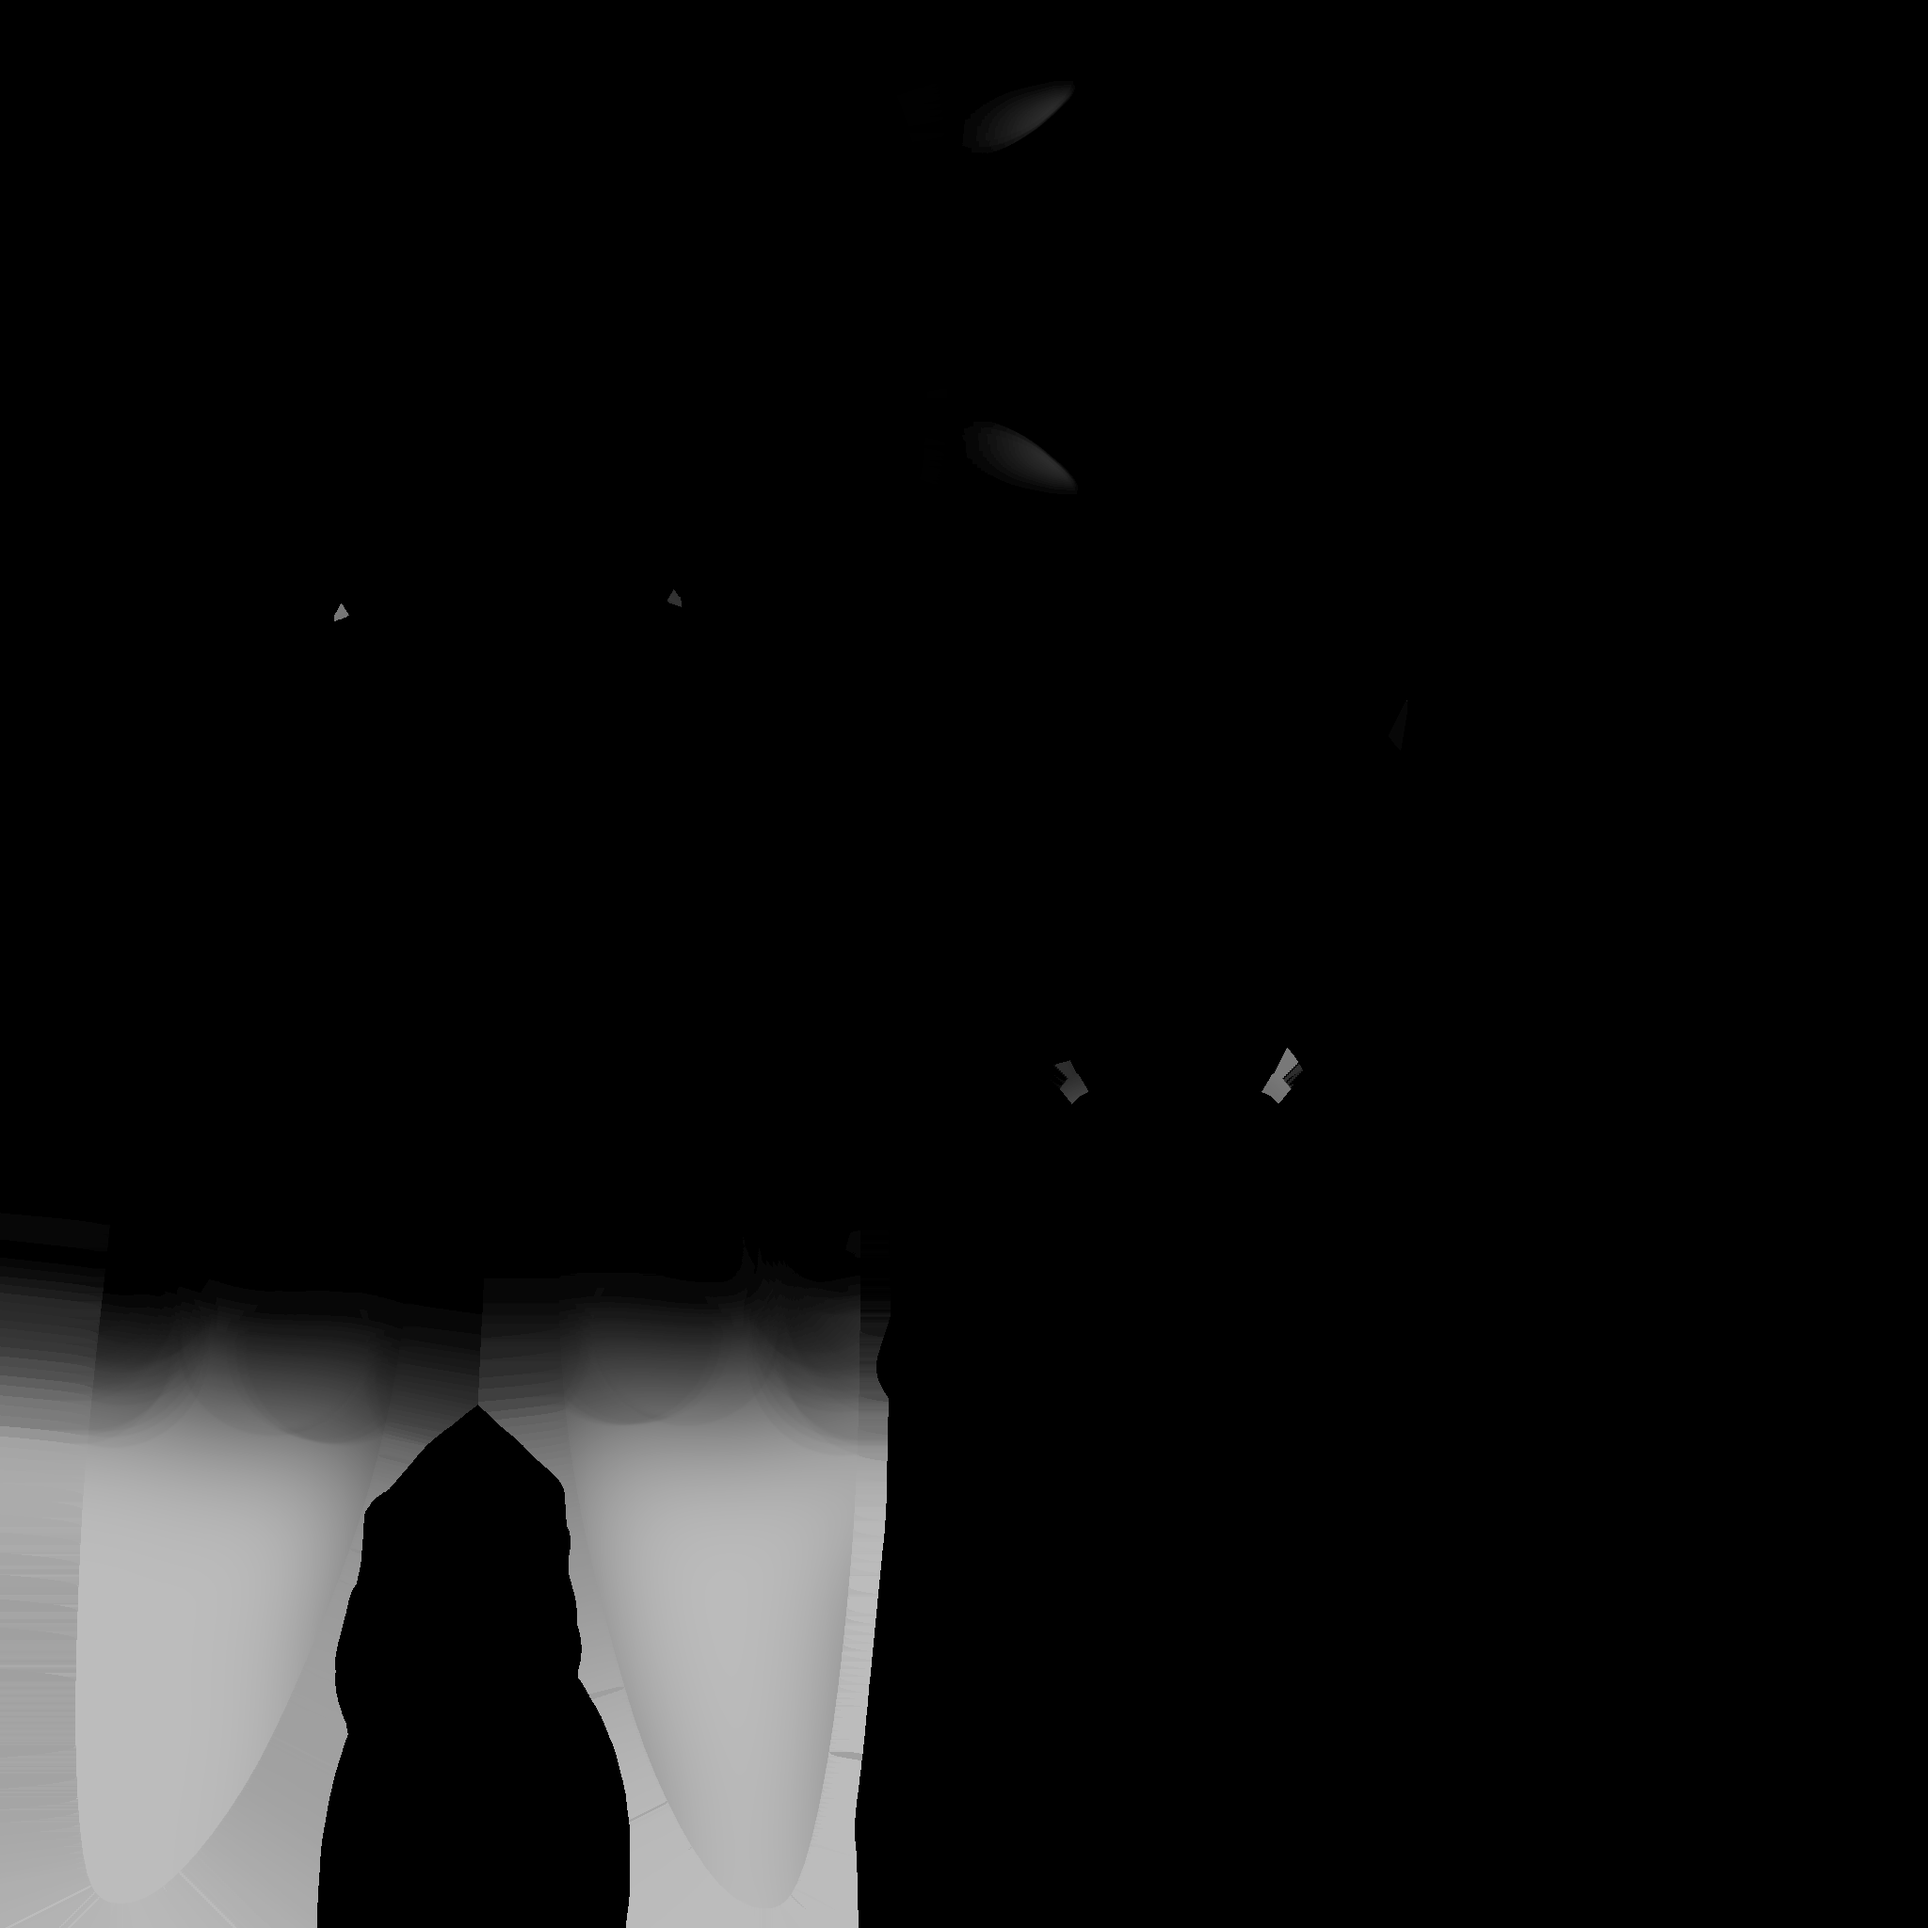
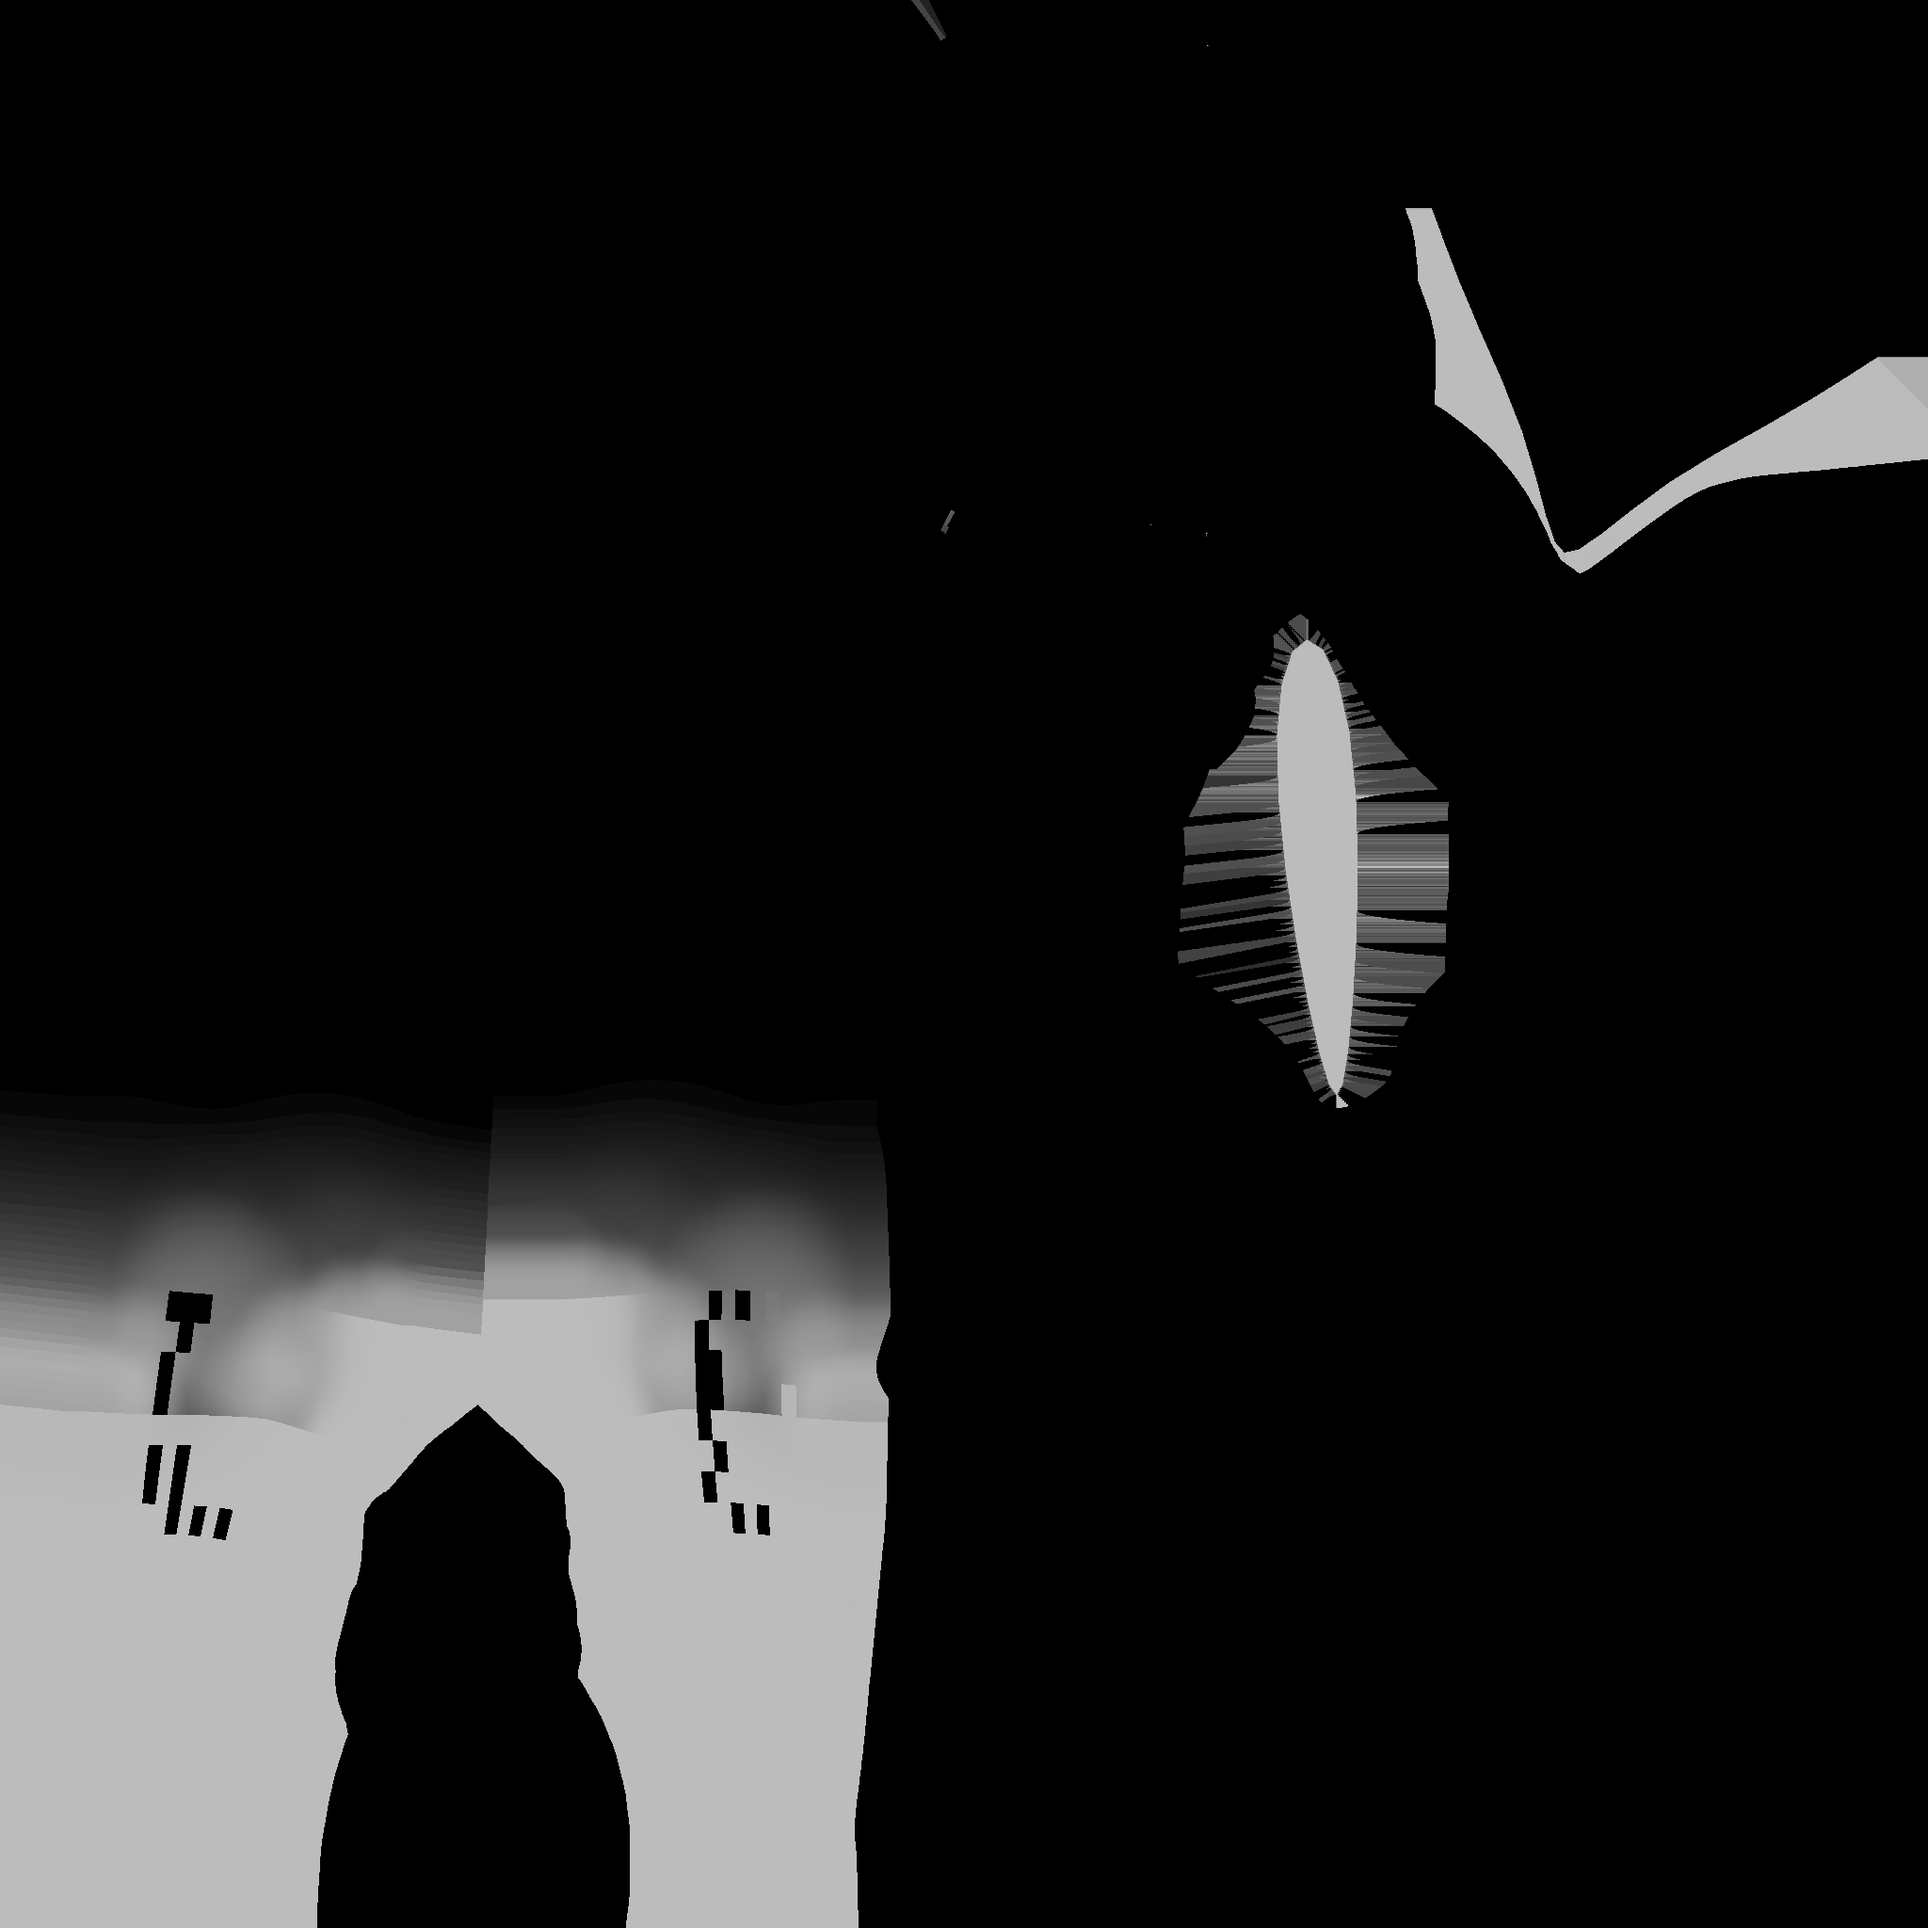
fixed 3D report

diff --git a/public/report-3d-viewer.js b/public/report-3d-viewer.js
@@ -22,17 +22,6 @@ const SECTION_MASK_MAP = {
     'Horizontal Stabilizer': 'HorizontalStabilizer.png'
 };
 
-// Section colors at 10+ defects (RGB values)
-const SECTION_MAX_COLORS = {
-    'FWD Fuselage': { r: 0, g: 102, b: 76 },      // rgb(0, 102, 76)
-    'MID Fuselage': { r: 25, g: 102, b: 0 },      // rgb(25, 102, 0)
-    'Wings': { r: 0, g: 31, b: 102 },             // rgb(0, 31, 102)
-    'AFT Fuselage': { r: 102, g: 0, b: 0 },        // rgb(102, 0, 0)
-    'Engines': { r: 83, g: 0, b: 102 },            // rgb(83, 0, 102)
-    'Vertical Stabilizer': { r: 102, g: 57, b: 0 }, // rgb(102, 57, 0)
-    'Horizontal Stabilizer': { r: 99, g: 102, b: 0 } // rgb(99, 102, 0)
-};
-
 // Convert hex color to THREE.Color
 const hexToColor = (hex) => {
     const r = parseInt(hex.slice(1, 3), 16) / 255;
@@ -41,31 +30,53 @@ const hexToColor = (hex) => {
     return new THREE.Color(r, g, b);
 };
 
-// Calculate heat mapping color based on defect count for a specific section
+// Calculate heat mapping color based on defect count
+// All sections use the same color scheme:
+// >20 defects: red (255, 0, 0)
+// 10 defects: yellow (255, 186, 0)
+// 3 defects: green (70, 255, 58)
+// 0 defects: white (255, 255, 255)
+// Gradient: red -> yellow -> green -> white as defects decrease
 const calculateHeatColor = (defectCount, sectionName) => {
     // All sections start at white (255, 255, 255) for 0 defects
     if (defectCount === 0) {
         return new THREE.Color(1, 1, 1); // White: rgb(255, 255, 255)
     }
     
-    // Get the section's max color (at 10+ defects)
-    const maxColor = SECTION_MAX_COLORS[sectionName];
-    if (!maxColor) {
-        // Fallback to white if section not found
-        return new THREE.Color(1, 1, 1);
+    // Color definitions (RGB 0-255)
+    const red = { r: 255, g: 0, b: 0 };        // >20 defects
+    const yellow = { r: 255, g: 186, b: 0 };   // 10 defects
+    const green = { r: 70, g: 255, b: 58 };    // 3 defects
+    const white = { r: 255, g: 255, b: 255 };  // 0 defects
+    
+    let r, g, b;
+    
+    if (defectCount > 20) {
+        // More than 20 defects: red
+        r = red.r / 255;
+        g = red.g / 255;
+        b = red.b / 255;
+    } else if (defectCount >= 10) {
+        // 10 to 20 defects: gradient from yellow to red
+        const factor = (defectCount - 10) / 10; // 0 at 10 defects, 1 at 20 defects
+        r = (yellow.r + (red.r - yellow.r) * factor) / 255;
+        g = (yellow.g + (red.g - yellow.g) * factor) / 255;
+        b = (yellow.b + (red.b - yellow.b) * factor) / 255;
+    } else if (defectCount >= 3) {
+        // 3 to 10 defects: gradient from green to yellow
+        const factor = (defectCount - 3) / 7; // 0 at 3 defects, 1 at 10 defects
+        r = (green.r + (yellow.r - green.r) * factor) / 255;
+        g = (green.g + (yellow.g - green.g) * factor) / 255;
+        b = (green.b + (yellow.b - green.b) * factor) / 255;
+    } else {
+        // 1 to 3 defects: gradient from white to green
+        const factor = defectCount / 3; // 0 at 0 defects, 1 at 3 defects
+        r = (white.r + (green.r - white.r) * factor) / 255;
+        g = (white.g + (green.g - white.g) * factor) / 255;
+        b = (white.b + (green.b - white.b) * factor) / 255;
     }
     
-    if (defectCount >= 10) {
-        // At 10+ defects, use the section's specific color
-        return new THREE.Color(maxColor.r / 255, maxColor.g / 255, maxColor.b / 255);
-    } else {
-        // Linear interpolation for 1-9 defects between white and section max color
-        const factor = defectCount / 10;
-        const r = (255 - (255 - maxColor.r) * factor) / 255;
-        const g = (255 - (255 - maxColor.g) * factor) / 255;
-        const b = (255 - (255 - maxColor.b) * factor) / 255;
-        return new THREE.Color(r, g, b);
-    }
+    return new THREE.Color(r, g, b);
 };
 
 // Count defects for a specific area, filtering by confidence threshold
@@ -288,22 +299,27 @@ const applyVisualization = async (model, state) => {
                 vec3 base = u_originalBaseColor;
                 ${hasTexture ? `
                 vec4 texColor = texture2D(u_originalTexture, vUv);
-                base = mix(base, texColor.rgb, 0.7);
+                base = texColor.rgb;
                 ` : ''}
                 
                 vec3 finalColor = base;
                 
-                // Apply each section mask - blend heat color only where mask is white
+                // Apply each section mask - replace with heat color where mask is active
                 // White areas (maskValue = 1.0) get full heat color
-                // Black areas (maskValue = 0.0) keep original color
+                // Black areas (maskValue = 0.0) keep original material color
                 // Grayscale areas get smooth interpolation
                 ${validSections.map((_, i) => `
                 {
                     vec4 mask_${i} = texture2D(u_mask_${i}, vUv);
                     float maskValue_${i} = mask_${i}.r;
                     
-                    // Blend heat color based on mask value
-                    finalColor = mix(finalColor, u_heatColor_${i}, maskValue_${i} * u_heatIntensity);
+                    // Check if heat color is white (no defects) - if so, keep original color
+                    vec3 heatColor_${i} = u_heatColor_${i};
+                    float isWhite_${i} = step(0.99, heatColor_${i}.r) * step(0.99, heatColor_${i}.g) * step(0.99, heatColor_${i}.b);
+                    
+                    // Only apply heat color if it's not white (has defects)
+                    // Replace base color with heat color in masked areas
+                    finalColor = mix(finalColor, heatColor_${i}, maskValue_${i} * (1.0 - isWhite_${i}));
                 }
                 `).join('')}
                 
@@ -466,7 +482,7 @@ const initViewer = async () => {
         const width = viewerContainer.clientWidth;
         const height = Math.max(400, viewerContainer.clientHeight || 400);
         camera = new THREE.PerspectiveCamera(45, width / height, 0.1, 1000);
-        camera.position.set(5, 5, 5);
+        camera.position.set(1,1, 1);
         camera.lookAt(0, 0, 0);
 
         // Set up renderer
@@ -479,8 +495,8 @@ const initViewer = async () => {
         controls = new OrbitControls(camera, renderer.domElement);
         controls.enableDamping = true;
         controls.dampingFactor = 0.05;
-        controls.minDistance = 2;
-        controls.maxDistance = 20;
+        controls.minDistance = 0.5;
+        controls.maxDistance =3
 
         // Add lights
         const ambientLight = new THREE.AmbientLight(0xffffff, 0.6);
